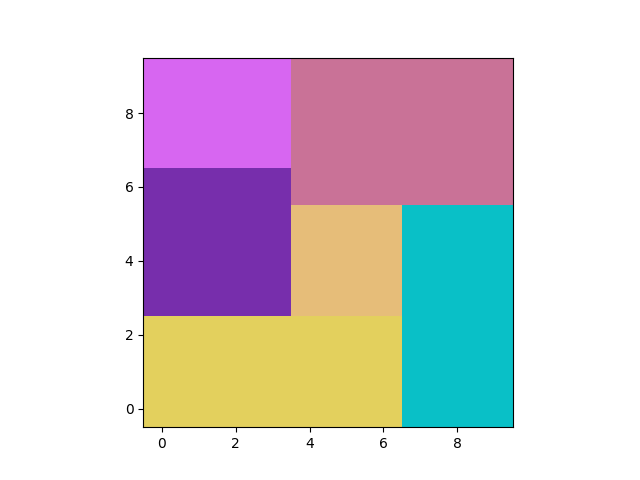
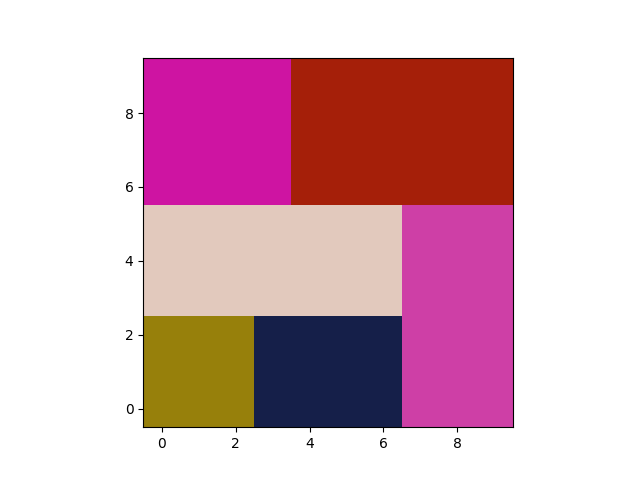
cp updated

diff --git a/CP/src/cp_exec.py b/CP/src/cp_exec.py
@@ -112,8 +112,12 @@ def cp_exec(first_i, last_i, solver, sym_break, rotation, plot):
             y_coord = output.solution.y_coordinates
             h = output.solution.h
             if rotation:
-                x = output.solution.w_new
-                y = output.solution.h_new
+                rotations = output.solution.rotation_c
+                for j in range(0, n):
+                    if rotations[j]:    # if rotation is enabled for a chip, then swap width and height
+                        temp = x[j]
+                        x[j] = y[j]
+                        y[j] = temp
             print(f'Instance: {i}\tExecution time: {(end_time):.03f}s\tBest objective value: {h}')
             write_solution(i, w, h, n, x, y, x_coord, y_coord, solver, sym_break, rotation)
             if plot:
